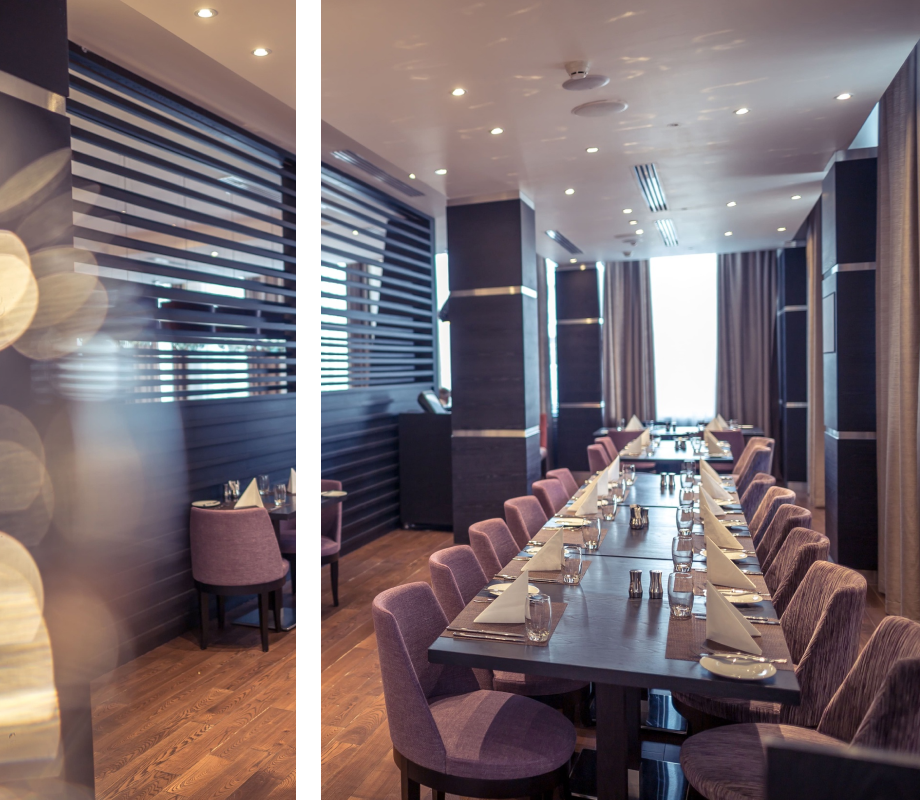
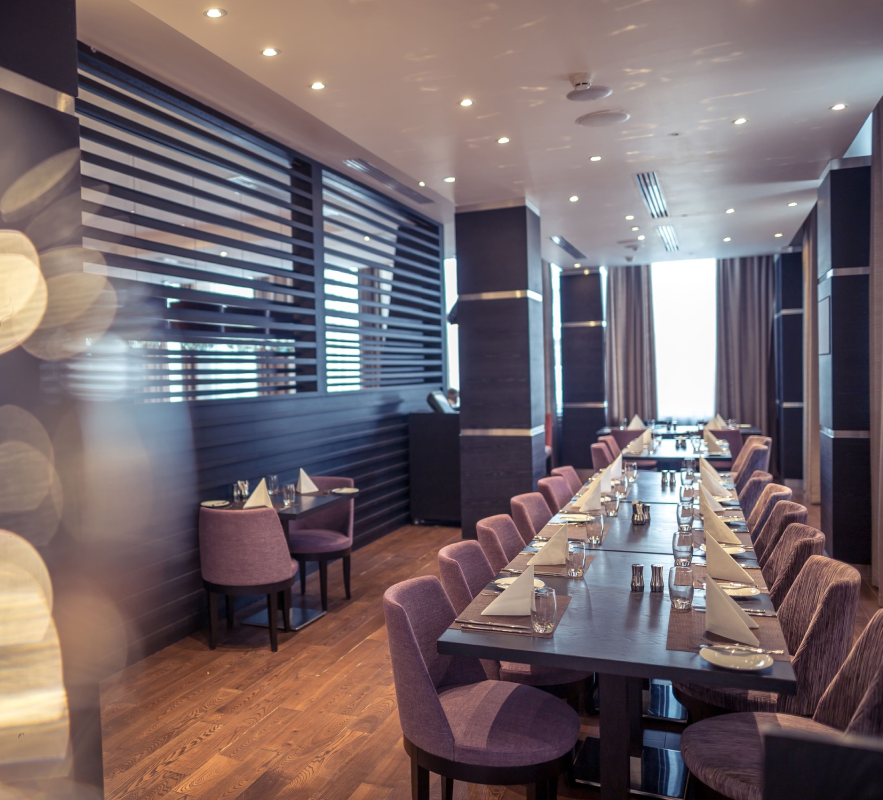
add page

diff --git a/src/components/header/header.scss b/src/components/header/header.scss
@@ -254,7 +254,7 @@ body {
     display: flex;
     flex-direction: column;
     width: 100%;
-    max-width: 623px;
+    max-width: 642px;
     .img-slider {
         height: 745px;
         width: 100%;
@@ -630,7 +630,7 @@ body {
             display: flex;
             flex-direction: column;
             width: fit-content;
-            padding: 0 40px;
+            padding: 0 35px;
             border-left: 1px solid $main;
             & > p {
                 color: #BBBBBB;
@@ -768,6 +768,167 @@ body {
         }
         .img-slider {
             max-width: 623px;
+        }
+    }
+}
+
+.number {
+    padding-top: 83px;
+    // padding-bottom: 178px;
+    text-align: center;
+    p.smalltext + p.text {
+        margin-top: 40px;
+    }
+}
+.number-equipment  {
+    text-align: center;
+}
+.number__slider-container {
+    margin-top: 20px;
+    padding: 43px 0;
+    position: relative;
+    margin-bottom: 34px;
+}
+.number__slider {
+    .number__wrapper {
+        height: 45vw;
+        .number__slide {
+            img {
+                width: 100%;
+                height: 100%;
+                object-fit: cover;
+                object-position: center;
+            }
+        }
+    }
+}
+.number__slider-thumb-container {
+    position: absolute;
+    left: 0;
+    top: 0;
+    width: 100%;
+    height: 100%;
+    
+    .outer, .inner {
+        height: 100%;
+    }
+    .inner {
+        position: relative;
+    }
+    &.hide {
+        .number__thumb-slider {
+            right: -100%;
+        }        
+    }
+}
+.number__thumb-slider {
+    user-select: none;
+    position: absolute;
+    right: 3.1vw;
+    max-width: 17.2vw;
+    height: 12.2vw;
+    bottom: 0;
+    display: flex;
+    flex-direction: column;
+    transition: .8s;
+    .number__thumb-label {
+        height: 4vw;
+        background: #A00062;
+        font-weight: 300;
+        font-size: 1.04vw;
+        color: #FFFFFF;
+        z-index: 1;
+        display: flex;
+        align-items: center;
+        justify-content: center;
+    }
+    img {
+        width: 100%;
+        height: 100%;
+        object-fit: cover;
+    }
+}
+.thumn-number__wrapper {
+    max-height: calc(100% - 51px);
+}
+.number__slider-pagination {
+    position: absolute;
+    bottom: 67px;
+    height: 73px;
+    width: 100%;
+    display: flex;
+    flex-direction: column;
+    z-index: 1;
+    font-weight: 300;
+    font-size: 24px;
+    color: #FFFFFF;
+    .swiper-pagination {
+        position: unset;
+    }
+}
+
+.number__slider-btn {
+    cursor: pointer;
+    min-width: 95px;
+    height: 95px;
+    border-radius: 50%;
+    background: #A00062;
+    position: absolute;
+    top: 50%;
+    transform: translateY(-50%);
+    z-index: 1;
+    transition: .8s;
+    display: flex;
+    align-items: center;
+    justify-content: center;
+    
+    &.number__slider-next {
+        right: 0;
+        &:hover {
+            right: -10px;
+        }
+        svg {
+            transform: scale(-1);
+        }
+        &.swiper-button-disabled  {
+            right: -100%;
+        }
+    }
+    &.number__slider-prev {
+        left: 0;
+        &:hover {
+            left: -10px;
+        }
+        &.swiper-button-disabled  {
+            left: -100%;
+        }
+    }
+}
+
+.equipment {
+    display: grid;
+    grid-template-columns: 1fr 1fr;
+    column-gap: 90px;
+    min-height: 745px;
+    padding-top: 70px;
+    align-items: center;
+    & > img {
+        width: 100%;
+        height: 100%;
+        object-fit: contain;
+        object-position: center;
+    }
+    ul {
+        display: flex;
+        flex-direction: column;
+        row-gap: 23px;
+
+        li {
+            font-weight: 300;
+            font-size: 16px;
+            line-height: 22px;
+            color: #2E2D2D;
+            text-align: left;
         }
     }
 }

diff --git a/src/components/header/header.js b/src/components/header/header.js
@@ -81,3 +81,54 @@ if(imageSliders) {
     });
   })
 }
+
+
+const numberSlider = document.querySelector('.number__slider-js');
+const numberThumbSlider = document.querySelector('.number__thumb-slider-js');
+const thumbContainer = document.querySelector('.number__slider-thumb-container');
+
+if (numberSlider) {
+  var thumbSwiper = new Swiper(numberThumbSlider, {
+    lazy: true,
+    effect: "fade",
+    slidesPerView: 1,
+    allowTouchMove: false,
+    fadeEffect: {
+      crossFade: true
+    },
+    watchSlidesProgress: true,
+  });
+
+  const numberSwiper = new Swiper(numberSlider, {
+    lazy: true,
+    slidesPerView: 1,
+    effect: "fade",
+    autoplay: {
+      delay: 3000,
+      disableOnInteraction: false,
+    },
+    fadeEffect: {
+      crossFade: true
+    },
+    pagination: {
+      el: ".swiper-pagination",
+      type: "fraction",
+    },
+    thumbs: {
+      swiper: thumbSwiper,
+    },
+    navigation: {
+      nextEl: ".swiper-button-prev-js",
+      prevEl: ".swiper-button-next-js",
+    },
+  });
+
+  numberSwiper.on('slideChangeTransitionEnd', function () {
+    if (numberSwiper.activeIndex === numberSwiper.slides.length - 1) {
+      thumbContainer.classList.add('hide');
+      // Выполните нужные действия для предпоследнего слайда
+    } else {
+      thumbContainer.classList.remove('hide');
+    }
+  });
+}

diff --git a/src/base/sass/_base.scss b/src/base/sass/_base.scss
@@ -36,7 +36,8 @@ input[type=number] {
 }
 	
 .inner {
-	max-width: 1440px;
+	max-width: 1366px;
+	box-sizing: border-box;
 	margin-left: auto;
 	margin-right: auto;
 }

diff --git a/src/base/sass/_typography.sass b/src/base/sass/_typography.sass
@@ -44,6 +44,8 @@ a > p.text
     color: $black
     @media (min-width: 768px)
         font-size: 16px
+
+
 /**
  * Lists
  */
